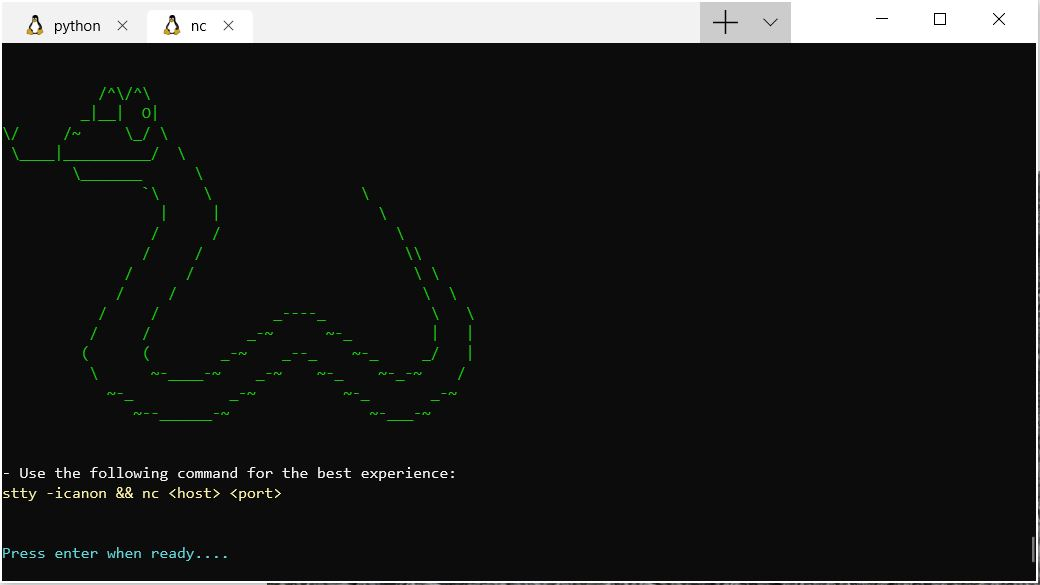
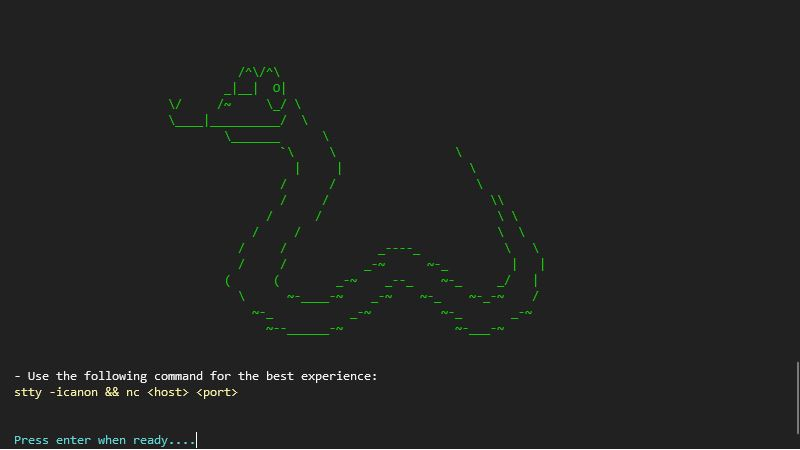
SP

diff --git a/frontend/pages/index.js b/frontend/pages/index.js
@@ -1,8 +1,9 @@
 import React from 'react';
-import { Grid } from '@material-ui/core';
+import { Grid, Hidden } from '@material-ui/core';
 import GameTile from '../src/GameTile';
 import Layout from '../src/Layout';
 import Jumbotron from '../src/Jumbotron';
+import CssBaseline from '@material-ui/core/CssBaseline';
 
 const games = [
   { name: "Subnet Racer", image: "subnet_racer.jpg", description: "How fast can you calculate basic subnets?" },
@@ -19,20 +20,21 @@ class Home extends React.Component {
   render() {
     const { games } = this.props; 
     return (
+      <>
+      <CssBaseline />
       <Layout>
-        <Jumbotron>
-          
-        </Jumbotron>
-        <div style={{ padding: 20 }}>
-          <Grid container justify="center" alignItems="stretch" spacing={4}>
-            {games.map(game => (
-              <Grid key={game.name} item xs={12} md={2} lg={3}>
-                <GameTile {...game} />
-              </Grid>
-            ))}
+        <Jumbotron />
+          <Grid container justify="center" spacing={0}>
+
+            <Grid item container direction="column" wrap="nowrap" xs={12} sm={10} md={8}>
+              {games.map(game => (
+                <GameTile {...game} key={game.name} />
+              ))}  
+            </Grid>
+
           </Grid>
-        </div>
       </Layout>
+      </>
     )
   }
 }

diff --git a/frontend/src/GameTile.js b/frontend/src/GameTile.js
@@ -10,11 +10,21 @@ import { makeStyles } from '@material-ui/styles';
 
 const useStyles = makeStyles(theme => ({
   media: {
-    height: 0,
-    paddingTop: '56.25%'
+    minWidth: '20%'
   },
   root: {
-    height: '100%'
+    display: 'flex',
+    margin: theme.spacing(2),
+    padding: theme.spacing(2),
+    [theme.breakpoints.down('sm')]: {
+      marginRight: 0,
+      marginLeft: 0
+    }
+  },
+  contentRoot: {
+    display: 'flex',
+    flexDirection: 'column',
+    padding: theme.spacing(1)
   }
 }))
 
@@ -23,17 +33,16 @@ const GameTile = ({ name, description, image, url, port }) => {
 
   return (
     <Card classes={{root: classes.root}}>
-      <CardHeader
-        avatar={ <Avatar>{ name[0] }</Avatar> }
-        title={ name }
-      />
       <CardMedia
-        className={classes.media}
+        className={ classes.media }
         image={ `/static/images/${image}` }
         title={ name }
       />
-      <CardContent>
-        <Typography variant="body1" color="textSecondary" component="p">
+      <CardContent classes={{root: classes.contentRoot}}>
+        <Typography variant="h6" noWrap>
+          { name }
+        </Typography>
+        <Typography variant="body1" color="textSecondary" component="p" noWrap>
           { description }
         </Typography>
       </CardContent>

diff --git a/frontend/src/theme.js b/frontend/src/theme.js
@@ -4,6 +4,7 @@ import { red } from '@material-ui/core/colors';
 // Create a theme instance.
 const theme = createMuiTheme({
   palette: {
+    type: 'dark',
     primary: {
       main: '#1ca354',
     },
@@ -12,9 +13,6 @@ const theme = createMuiTheme({
     },
     error: {
       main: red.A400,
-    },
-    background: {
-      default: '#fff',
     },
   },
 });

diff --git a/tmp.py b/tmp.py
@@ -17,16 +17,48 @@ class Cursor:
 
 art = f"""{Cursor.CLEAR}{Cursor.GREEN}
 
-                _____                   _   _ _       _       
-                |_   _|                 | \ | (_)     (_)      
-                | | ___ _ __ _ __ ___ |  \| |_ _ __  _  __ _ 
-                | |/ _ \ '__| '_ ` _ \| . ` | | '_ \| |/ _` |
-                | |  __/ |  | | | | | | |\  | | | | | | (_| |
-                \_/\___|_|  |_| |_| |_\_| \_/_|_| |_| |\__,_|
-                                                    _/ |      
-                                                    |__/
+              
+              
+                                _____                   _   _ _       _       
+                                |_   _|                 | \ | (_)     (_)      
+                                | | ___ _ __ _ __ ___ |  \| |_ _ __  _  __ _ 
+                                | |/ _ \ '__| '_ ` _ \| . ` | | '_ \| |/ _` |
+                                | |  __/ |  | | | | | | |\  | | | | | | (_| |
+                                \_/\___|_|  |_| |_| |_\_| \_/_|_| |_| |\__,_|
+                                                                    _/ |      
+                                                                    |__/
+
+
+
+
+
 
 {Cursor.RESET}
+"""
+
+
+WELCOME_MESSAGE = f"""{Cursor.CLEAR}
+
+                        {Cursor.YELLOW}
+                        888   d8b        888                   888                    
+                        888   Y8P        888                   888                    
+                        888              888                   888                    
+                        888888888 .d8888b888888 8888b.  .d8888b888888 .d88b.  .d88b.  
+                        888   888d88P"   888       "88bd88P"   888   d88""88bd8P  Y8b 
+                        888   888888     888   .d888888888     888   888  88888888888 
+                        Y88b. 888Y88b.   Y88b. 888  888Y88b.   Y88b. Y88..88PY8b.     
+                        "Y888888 "Y8888P "Y888"Y888888 "Y8888P "Y888 "Y88P"  "Y8888{Cursor.RESET}
+                                                            
+
+                            {Cursor.BLUE}Searching for an opponent...{Cursor.RESET}
+
+
+
+
+
+
+
+
 """
 
 print(art)

diff --git a/snake/config.py b/snake/config.py
@@ -2,27 +2,27 @@ from shell_games import Cursor
 
 WELCOME_MESSAGE = f"""{Cursor.CLEAR}
 {Cursor.GREEN}
-           /^\/^\\
-         _|__|  O|
-\/     /~     \_/ \\
- \____|__________/  \\
-        \_______      \\
-                `\     \                 \\
-                  |     |                  \\
-                 /      /                    \\
-                /     /                       \\\\
-              /      /                         \ \\
-             /     /                            \  \\
-           /     /             _----_            \   \\
-          /     /           _-~      ~-_         |   |
-         (      (        _-~    _--_    ~-_     _/   |
-          \      ~-____-~    _-~    ~-_    ~-_-~    /
-            ~-_           _-~          ~-_       _-~
-               ~--______-~                ~-___-~
+                /^\/^\\
+              _|__|  O|
+      \/     /~     \_/ \\
+      \____|__________/  \\
+              \_______      \\
+                      `\     \                 \\
+                        |     |                  \\
+                      /      /                    \\
+                      /     /                       \\\\
+                    /      /                         \ \\
+                  /     /                            \  \\
+                /     /             _----_            \   \\
+                /     /           _-~      ~-_         |   |
+              (      (        _-~    _--_    ~-_     _/   |
+                \      ~-____-~    _-~    ~-_    ~-_-~    /
+                  ~-_           _-~          ~-_       _-~
+                    ~--______-~                ~-___-~
 {Cursor.RESET}
 
-- Use the following command for the best experience:
-{Cursor.YELLOW}stty -icanon && nc <host> <port>{Cursor.RESET}
+  - Use the following command for the best experience:
+  {Cursor.YELLOW}stty -icanon && nc <host> <port>{Cursor.RESET}
 
 
-{Cursor.BLUE}Press enter when ready....{Cursor.RESET}"""
+  {Cursor.BLUE}Press enter when ready....{Cursor.RESET}"""

diff --git a/subnet-racer/config.py b/subnet-racer/config.py
@@ -9,20 +9,21 @@ ROUND_LENGTH = 60
 #
 WELCOME_MESSAGE = f"""{Cursor.CLEAR}
 {Cursor.YELLOW}
-        __-------__
-      / _---------_ \\
-     / /           \ \\
-     | |           | |
-     |_|___________|_|
- /-\|                 |/-\\
-| _ |\       0       /| _ |
-|(_)| \      !      / |(_)|
-|___|__\_____!_____/__|___|
-[_____{Cursor.RESET}{Cursor.BLUE}|SUBNET RACER|{Cursor.RESET}{Cursor.YELLOW}______] 
- ||||    ~~~~~~~~     ||||
- `--'                 `--'
+                __-------__
+              / _---------_ \\
+              / /           \ \\
+              | |           | |
+              |_|___________|_|
+          /-\|                 |/-\\
+        | _ |\       0       /| _ |
+        |(_)| \      !      / |(_)|
+        |___|__\_____!_____/__|___|
+        [_____{Cursor.RESET}{Cursor.BLUE}|SUBNET RACER|{Cursor.RESET}{Cursor.YELLOW}______] 
+          ||||    ~~~~~~~~     ||||
+          `--'                 `--'
 
-Welcome to Subnet Racer!!!!{Cursor.RESET}
+        Welcome to Subnet Racer!!!!{Cursor.RESET}
+
 
 """
 

diff --git a/tic-tac-toe/config.py b/tic-tac-toe/config.py
@@ -39,7 +39,7 @@ WELCOME_MESSAGE = f"""{Cursor.CLEAR}
   888   888d88P"   888       "88bd88P"   888   d88""88bd8P  Y8b 
   888   888888     888   .d888888888     888   888  88888888888 
   Y88b. 888Y88b.   Y88b. 888  888Y88b.   Y88b. Y88..88PY8b.     
-  "Y888888 "Y8888P "Y888"Y888888 "Y8888P "Y888 "Y88P"  "Y8888{Cursor.RESET}   
+  "Y888888 "Y8888P "Y888"Y888888 "Y8888P "Y888 "Y88P"  "Y8888{Cursor.RESET}
                                       
 
     {Cursor.blue("Searching for an opponent...")}
